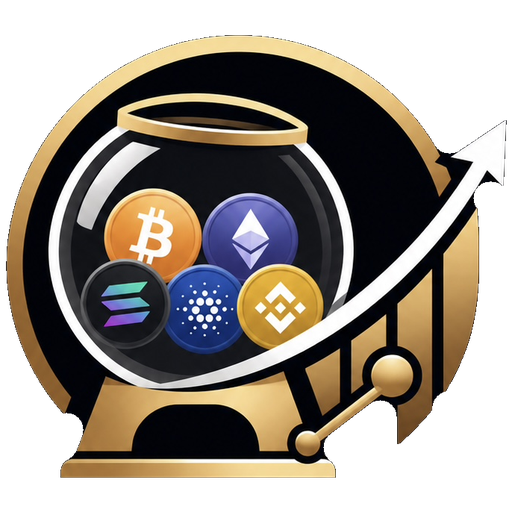
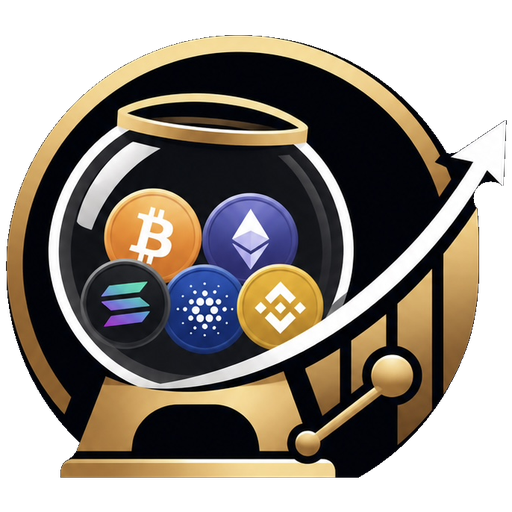
Fill the ring disc so white cannot bleed into the bottom right
The filled silhouette still let the background through in one place: the
concavity between the stand and the bar chart, around the ball-and-stick
handle. That region is not an enclosed hole — it connects to the exterior — so
binary_fill_holes cannot reach it, and growing the closing radius barely helps
(radius 70 moved it from 49k to 44k transparent pixels while costing minutes of
compute and bloating the outline).

Covered instead by filling the gold ring's disc, fitted from the artwork's own
extremes at centre (624.5, 510.5) radius 316.5, and verified against 8 angles.
The disc is clipped at the emblem's bottom (y=786): the ring's lower arc is
occluded by the stand, so an unclipped disc would reach y=827 and paint black
below the artwork.

Final alpha is the filled silhouette unioned with that clipped disc.

Claude-Session: https://claude.ai/code/session_01Py4Bn8WitQNYK2hzsi2tAu

diff --git a/README.md b/README.md
@@ -86,12 +86,24 @@ between the ring, the ball and the stand. No shape crop — the alpha follows th
 itself. Cut square (686px, centred on the emblem at 643, 490) and downsampled with LANCZOS,
 which supplies the edge antialiasing.
 
-Getting the interior sealed takes a morphological closing before the hole fill. The
-outline has real gaps — the ring passes behind the ball, and its dark lower edge meets the
-dark ground — so `binary_fill_holes` alone leaks and leaves white showing inside the ring.
-A **disk closing of radius 22** bridges those gaps; below that the ring interior stays
-unsealed, and above it the fill grows by under 2% while the outer silhouette starts to
-bloat.
+Sealing the interior takes two steps, because two different kinds of gap leak.
+
+**Enclosed gaps** — where the ring passes behind the ball and its dark lower edge meets the
+dark ground — are bridged by a **disk closing of radius 22** before `binary_fill_holes`.
+Below that the ring interior stays unsealed; above it the fill grows by under 2% while the
+outer silhouette starts to bloat.
+
+**The open concavity** between the stand and the bar chart, around the ball-and-stick
+handle, is not a hole at all — it connects to the exterior, so no hole fill can reach it and
+closing barely dents it (radius 70 only took it from 49k to 44k transparent pixels, and cost
+minutes of compute). It is instead covered by filling the **gold ring's disc**, fitted from
+the artwork at **centre (624.5, 510.5), radius 316.5**. The fit is taken from the ring's
+own extremes — the left edge and top of the emblem are ring, nothing else reaches them —
+and verified against 8 angles.
+
+That disc is **clipped at the emblem's bottom (y=786)**. The ring's lower arc is occluded by
+the stand, so an unclipped disc would reach y=827 and paint 41px of black below the artwork.
+Final alpha is the filled silhouette unioned with that clipped disc.
 
 Filling the interior also brings the arrow back. It is near-white, so on a transparent
 icon over a light tab bar it vanishes into the background — but against the restored black
